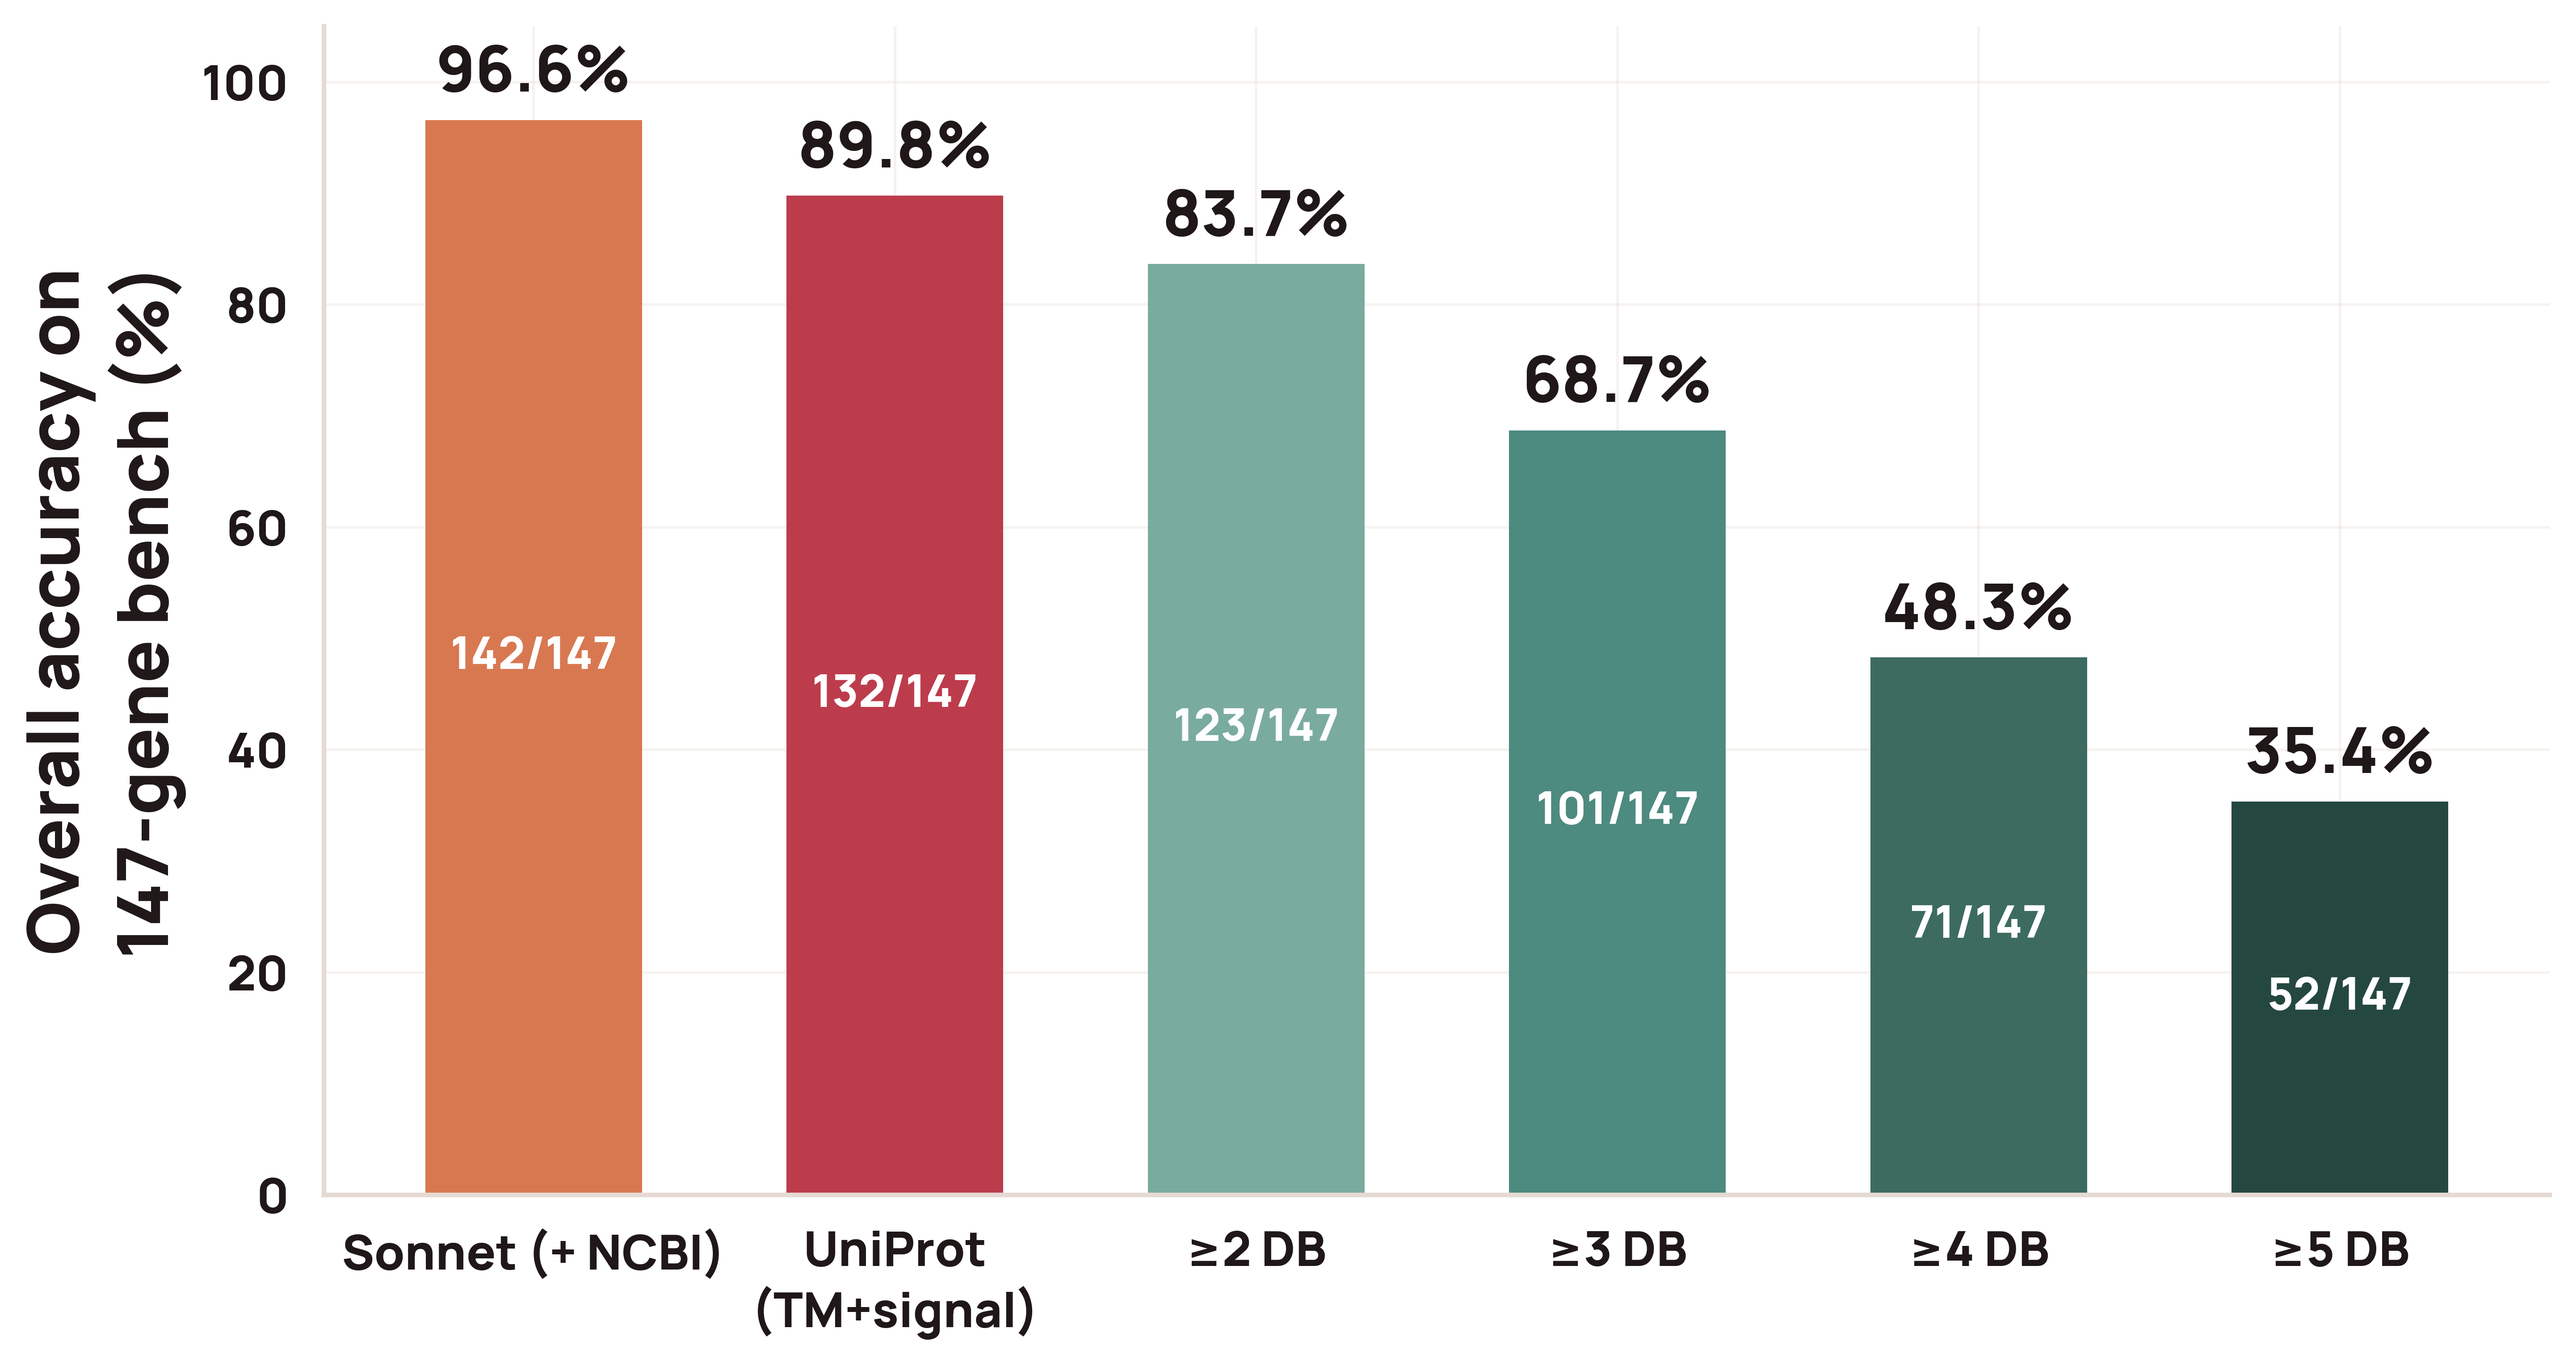
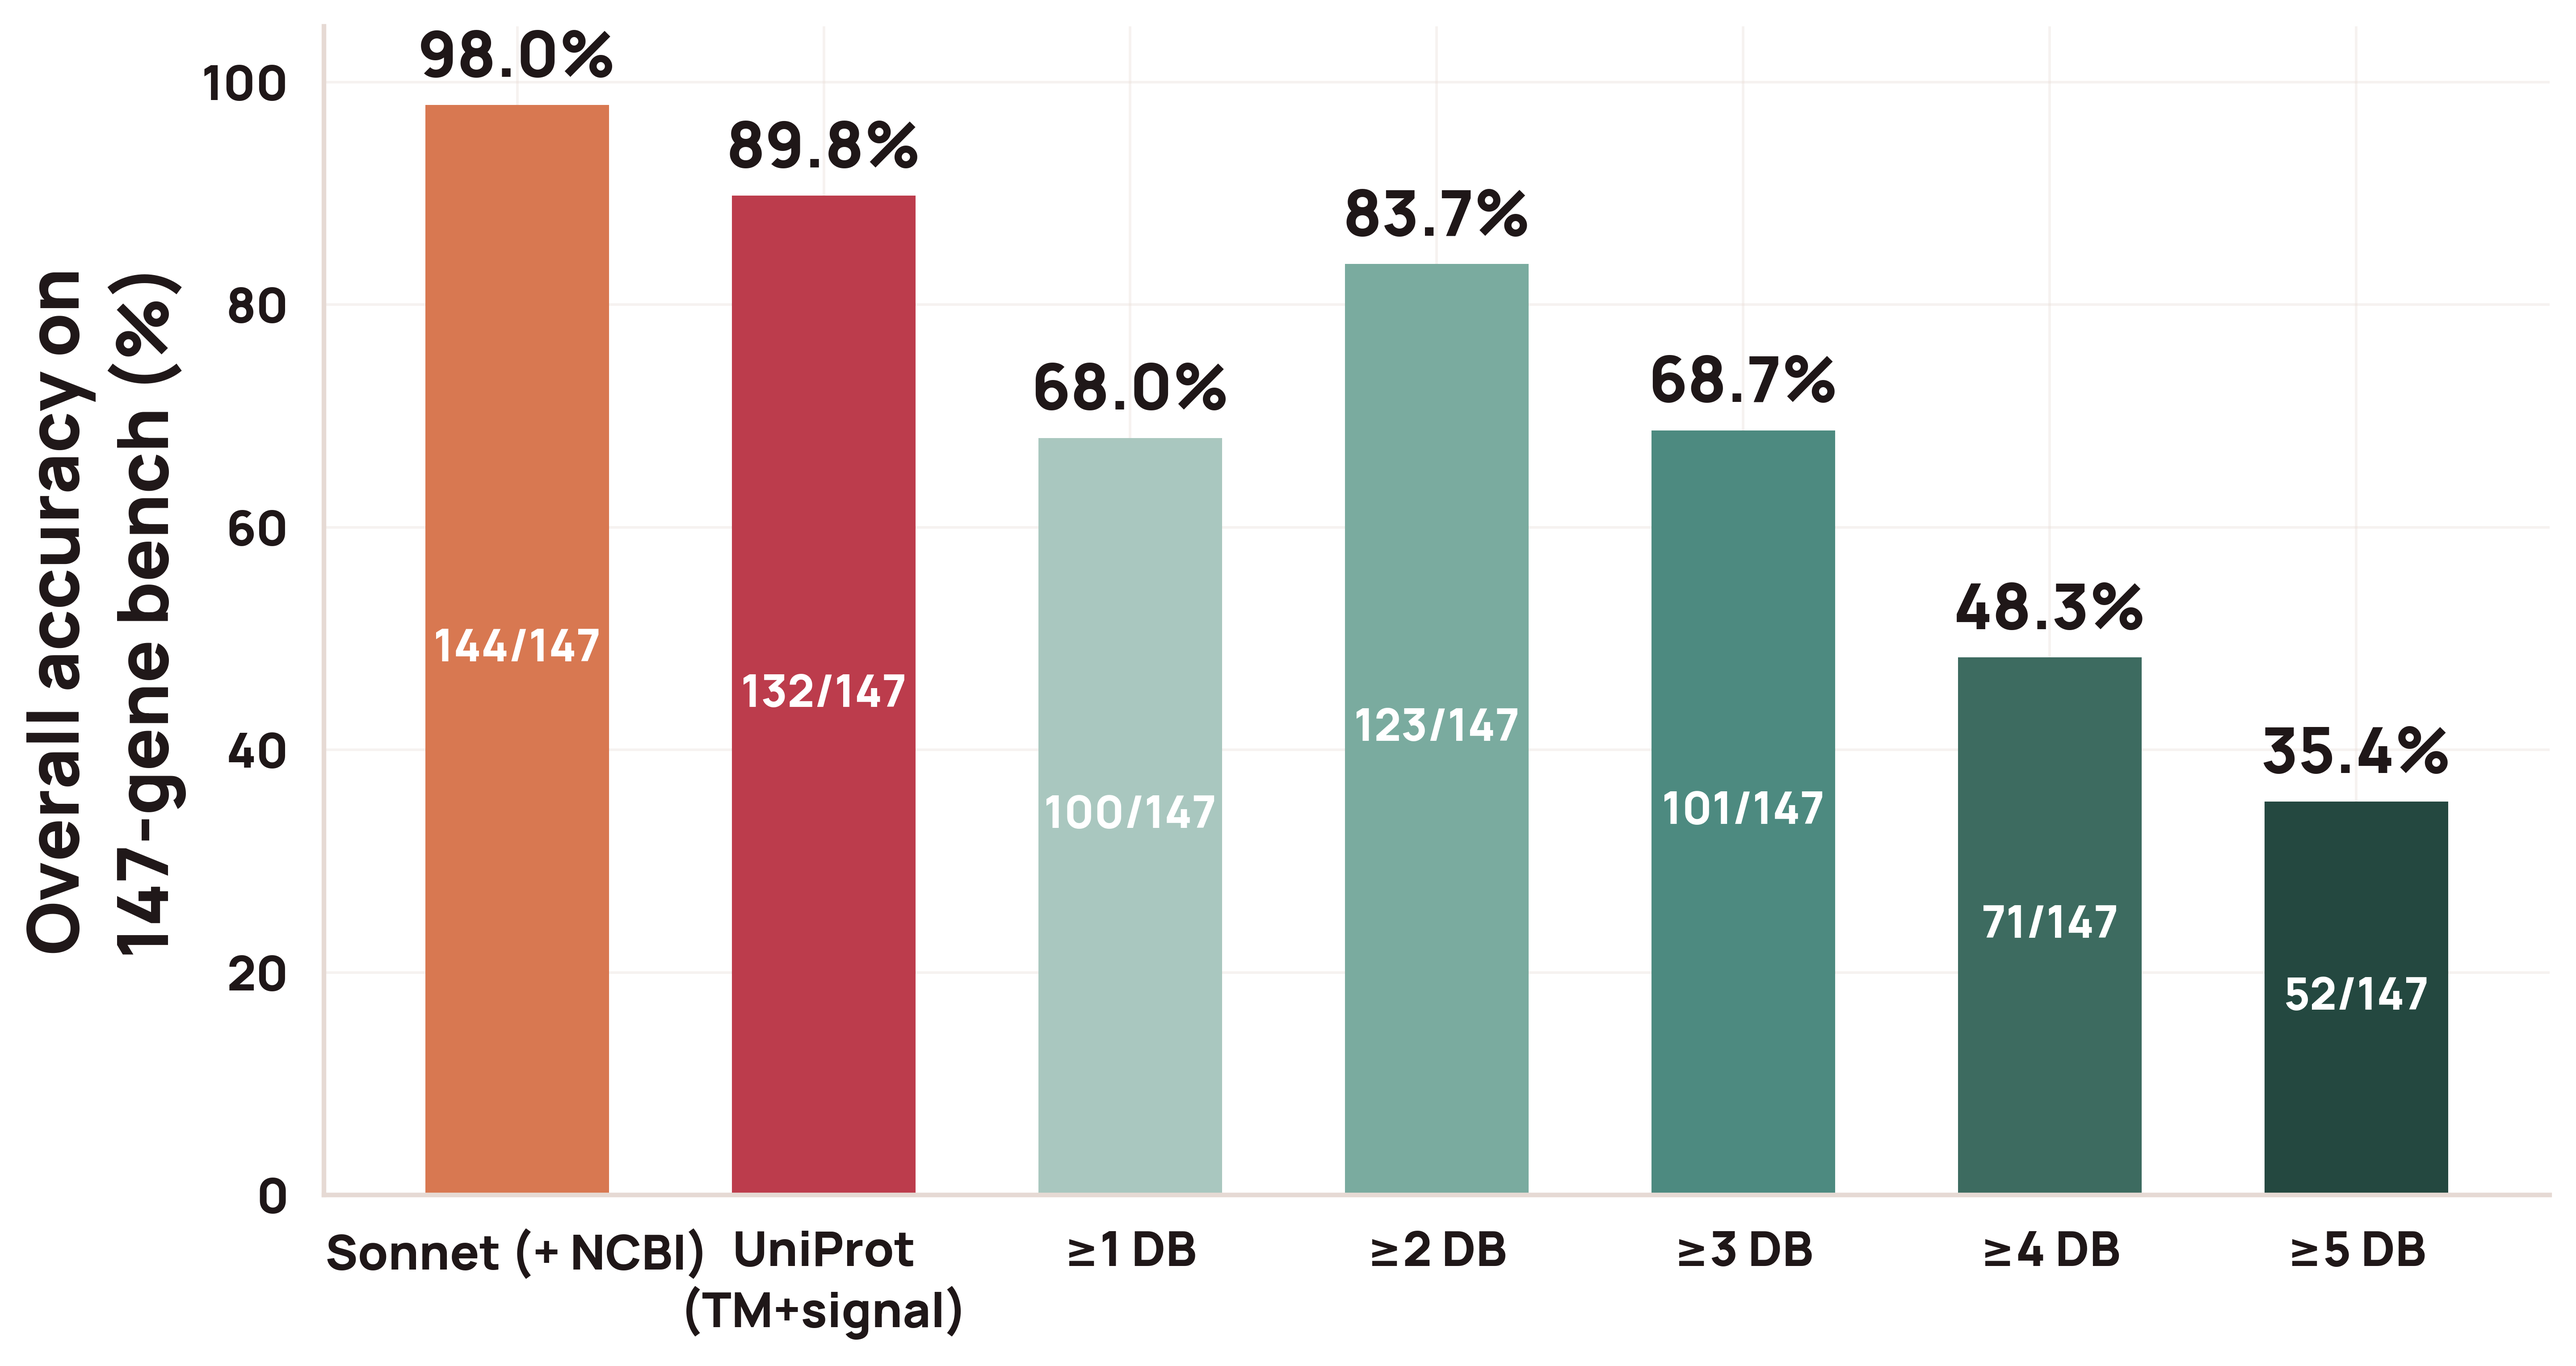
fix(audit): add the union (>=1 DB) bar to supplementary figure S5 (#276)
* fix(audit): add the union (>=1 DB) bar to S5 and collapse replicates by majority

Chance asked for the any-DB union, which the figure never scored: the
loop ran k=2..5, while Methods claimed no ensembling condition beat the
agent. k=1 matches the agent's sensitivity (97.0%) and rejects 4 of 48
true negatives, landing at 68.0% overall — the worst ensemble on the
panel.

Also fixes the Sonnet bar, which took replicate 1 via .first() rather
than the majority across the three replicates. ABCB9 and C3 flip, moving
the agent from 96.6% to 98.0%. Same bug class as the reason-collapse fix
in curator_vs_agent_reason.py.

* chore(audit): re-bundle the S5 gist after the union bar

diff --git a/scripts/figures/ensemble_vs_best_db_vs_sonnet.py b/scripts/figures/ensemble_vs_best_db_vs_sonnet.py
@@ -3,7 +3,11 @@
 Six-bar comparison:
   * Sonnet (+ NCBI)        — the LLM, canonical NCBI-resolver variant
   * UniProt (TM+signal)    — best single DB under its optimized cutoff
-  * ≥2 / ≥3 / ≥4 / ≥5 DB   — ensemble: "yes" iff at least k of the 5
+  * ≥1 … ≥5 DB            — ensemble: "yes" iff at least k of the 5
+                              surface DBs vote yes. k=1 is the union
+                              (any DB), the most permissive setting; it
+                              matches the agent's sensitivity and loses
+                              nearly all specificity.
                               surface DBs (each under its optimized
                               cutoff) vote yes
 
@@ -21,6 +25,7 @@ Run:
 """
 from __future__ import annotations
 
+from collections import Counter
 from pathlib import Path
 
 import matplotlib.pyplot as plt
@@ -44,6 +49,7 @@ CLAUDE_ORANGE = "#d87851"
 # Sequential teal ramp for the ≥k ensembles, light → dark = permissive → strict.
 # Pulled from BRAND_SEQUENTIAL teal so the ensemble bars cluster visually.
 ENSEMBLE_PALETTE = {
+    1: "#A9C7BF",  # teal-lightest — the union (any DB)
     2: "#7AAB9F",  # teal-light
     3: "#4D8A80",
     4: "#3D6B60",
@@ -78,17 +84,26 @@ def main() -> None:
         out["SURFY"]   = row["surfy_surface_flag"] == 1
         return out
 
-    sonnet_ncbi = (
-        data[(data["model"] == "claude-sonnet-4-6") & (data["prompt_variant"] == "ncbi")]
-        .groupby("gene_symbol", sort=False)["predicted_verdict"].first().to_dict()
-    )
+    # Majority across replicates, not the first one. `.first()` silently
+    # reported replicate 1 as if it were the run's verdict, which flipped
+    # two genes (ABCB9, C3) and understated the agent by 1.4 pp. Same bug
+    # class as the reason-collapse fix in curator_vs_agent_reason.py.
+    _sonnet_rows = data[
+        (data["model"] == "claude-sonnet-4-6") & (data["prompt_variant"] == "ncbi")
+    ]
+    sonnet_ncbi = {
+        gene: Counter(verdicts).most_common(1)[0][0]
+        for gene, verdicts in _sonnet_rows.groupby("gene_symbol", sort=False)[
+            "predicted_verdict"
+        ]
+    }
 
     callers: list[tuple[str, callable, str]] = [
         ("Sonnet (+ NCBI)",      lambda g: sonnet_ncbi.get(g) or "no",                              CLAUDE_ORANGE),
         ("UniProt\n(TM+signal)", lambda g: "yes" if db_votes_for(g).get("UniProt") else "no",
                                                                                                     CATEGORICAL_PALETTE[0]),
     ]
-    for k in (2, 3, 4, 5):
+    for k in (1, 2, 3, 4, 5):
         callers.append((
             f"≥{k} DB",
             (lambda g, k=k: "yes" if sum(db_votes_for(g).values()) >= k else "no"),

diff --git a/data/analysis/figures/make_ensemble_vs_best_db_vs_sonnet.py b/data/analysis/figures/make_ensemble_vs_best_db_vs_sonnet.py
@@ -31,6 +31,7 @@ Standalone — ``uv run make_ensemble_vs_best_db_vs_sonnet.py``.
 """
 from __future__ import annotations
 
+from collections import Counter
 from pathlib import Path
 
 import matplotlib.font_manager as fm
@@ -143,6 +144,7 @@ DB_LABELS = ["UniProt", "GO CC", "HPA", "SURFY", "CSPA"]
 
 # Sequential teal ramp for the ≥k ensembles: light → dark = permissive → strict.
 ENSEMBLE_PALETTE = {
+    1: "#A9C7BF",  # teal-lightest — the union (any DB)
     2: "#7AAB9F",  # teal-light
     3: "#4D8A80",
     4: "#3D6B60",
@@ -207,10 +209,19 @@ def main() -> None:
                 return out
         return out
 
-    sonnet_ncbi = (
-        data[(data["model"] == "claude-sonnet-4-6") & (data["prompt_variant"] == "ncbi")]
-        .groupby("gene_symbol", sort=False)["predicted_verdict"].first().to_dict()
-    )
+    # Majority across replicates, not the first one. `.first()` silently
+    # reported replicate 1 as if it were the run's verdict, which flipped
+    # two genes (ABCB9, C3) and understated the agent by 1.4 pp. Same bug
+    # class as the reason-collapse fix in curator_vs_agent_reason.py.
+    _sonnet_rows = data[
+        (data["model"] == "claude-sonnet-4-6") & (data["prompt_variant"] == "ncbi")
+    ]
+    sonnet_ncbi = {
+        gene: Counter(verdicts).most_common(1)[0][0]
+        for gene, verdicts in _sonnet_rows.groupby("gene_symbol", sort=False)[
+            "predicted_verdict"
+        ]
+    }
 
     callers: list[tuple[str, callable, str]] = [
         ("Sonnet (+ IDs)",      lambda g: sonnet_ncbi.get(g) or "no",                              BRAND_CLAUDE_ORANGE),
@@ -219,7 +230,7 @@ def main() -> None:
     ]
     # "k+ DB" rather than "≥k DB" — static Manrope OTFs lack the ≥ glyph
     # and matplotlib silently drops it; ASCII "+" stays robust.
-    for k in (2, 3, 4, 5):
+    for k in (1, 2, 3, 4, 5):
         callers.append((
             f"{k}+ DB",
             (lambda g, k=k: "yes" if sum(db_votes_for(acc_by_gene.get(g, "")).values()) >= k else "no"),
